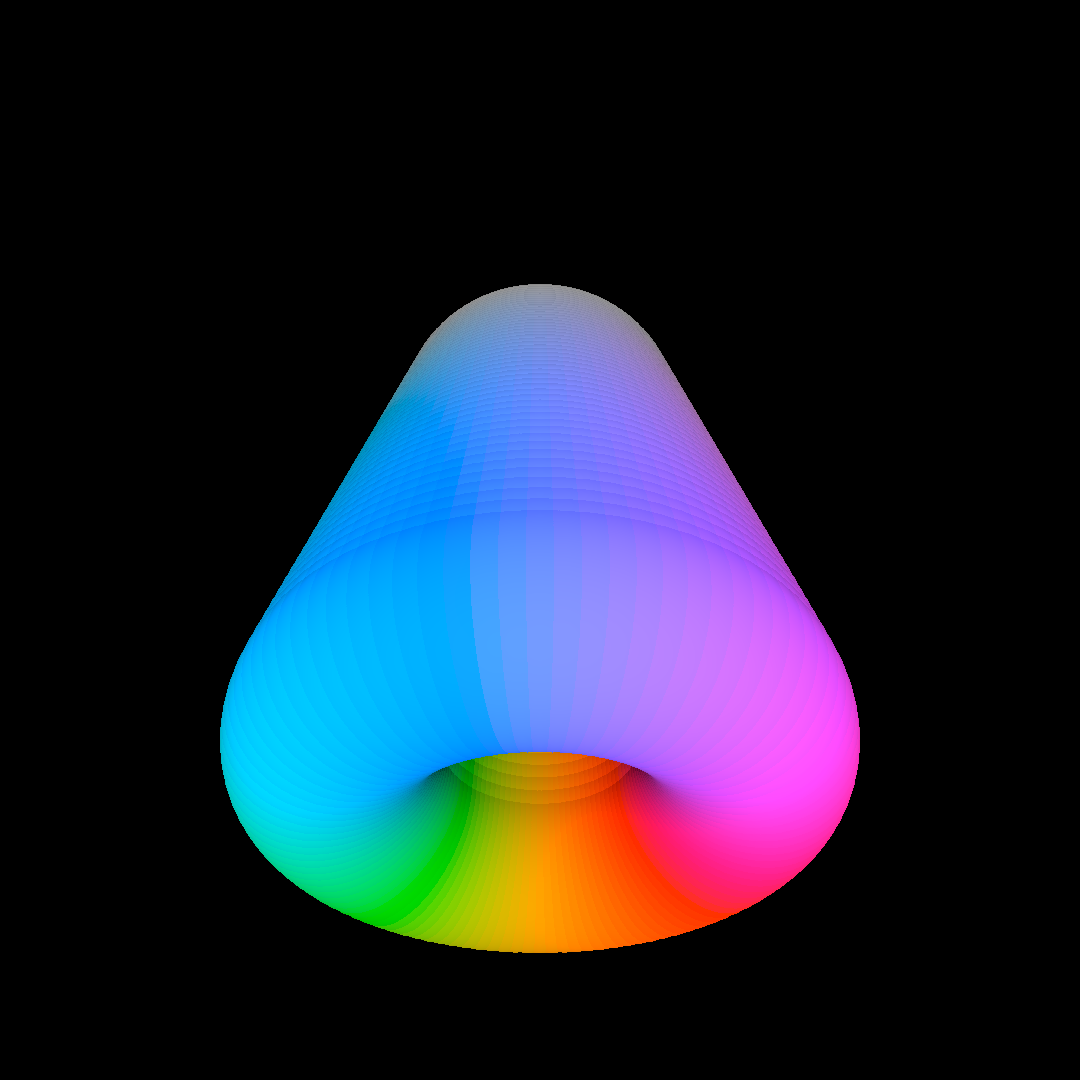
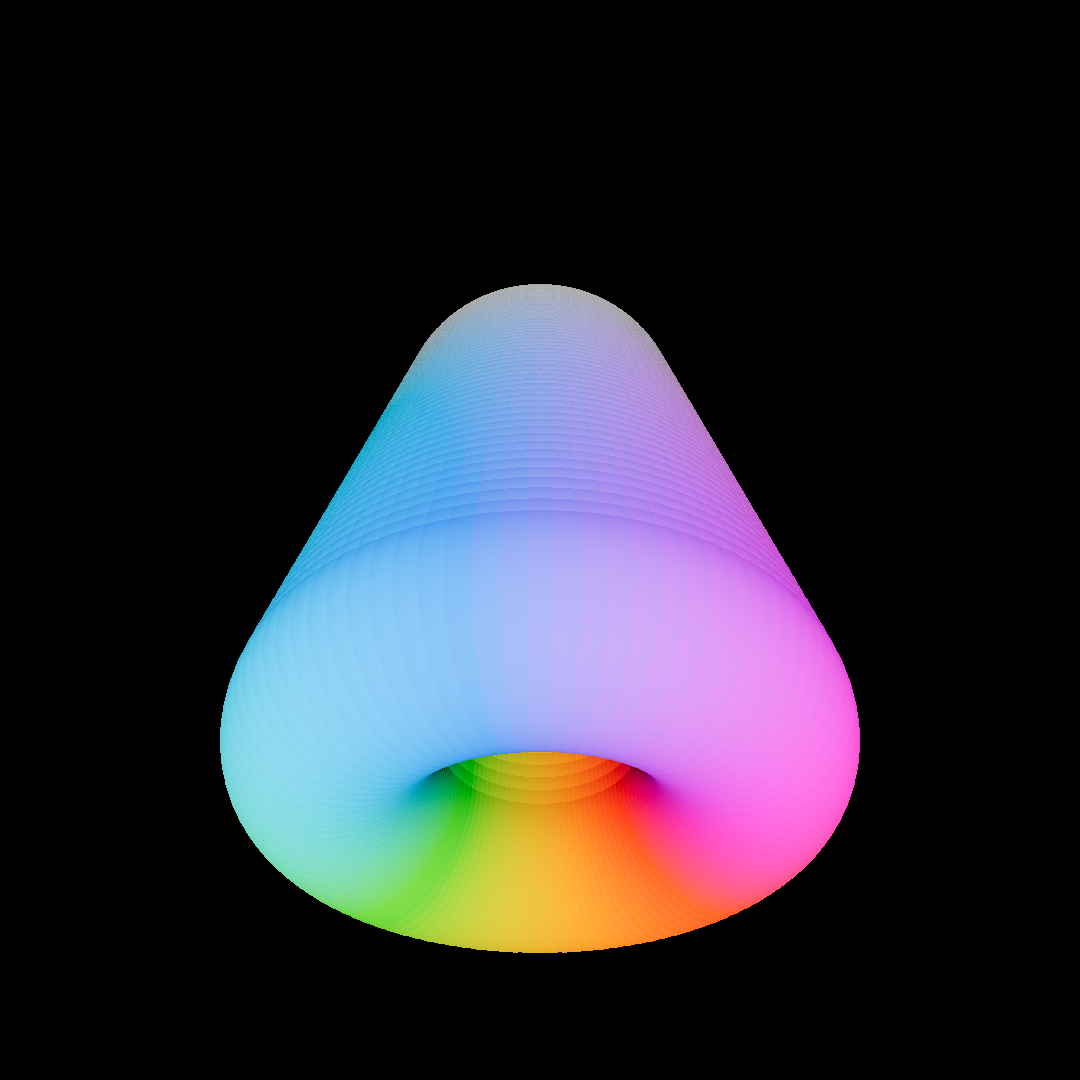
Better ACES tonemapping function
Also, use it in the oklch example as this allows for regression testing 
of the visual output, but also because the example just looks better 
with ACES tonemapping.

Changed region(s): [[0.1833, 0.2444, 0.7944, 0.8861]]

diff --git a/docs/windows.md b/docs/windows.md
@@ -641,11 +641,11 @@ of each pixel. Default is `0`.
 adjustments, Values less than 1 will lighten the output image and values
 greater than 1 will darken it.
 
-`tonemap=` [ `:aces` | `:reinhard` ]
+`tonemap=` [ `:reinhard` | `:aces` ]
 : If specified, then a tone-mapping function will be applied to map high
 dynamic range images into the $[0,1]$ range. The supported tone-mapping
-functions are: (an approximation of) the ACES filmic curve, and the Reinhard
-curve. Default is no tone-mapping.
+functions are: the Reinhard curve function, and a (close approximation of) the
+ACES filmic function. Default is no tone-mapping.
 
 If `tonemap=:reinhard` then an additional attribute is supported:
 
